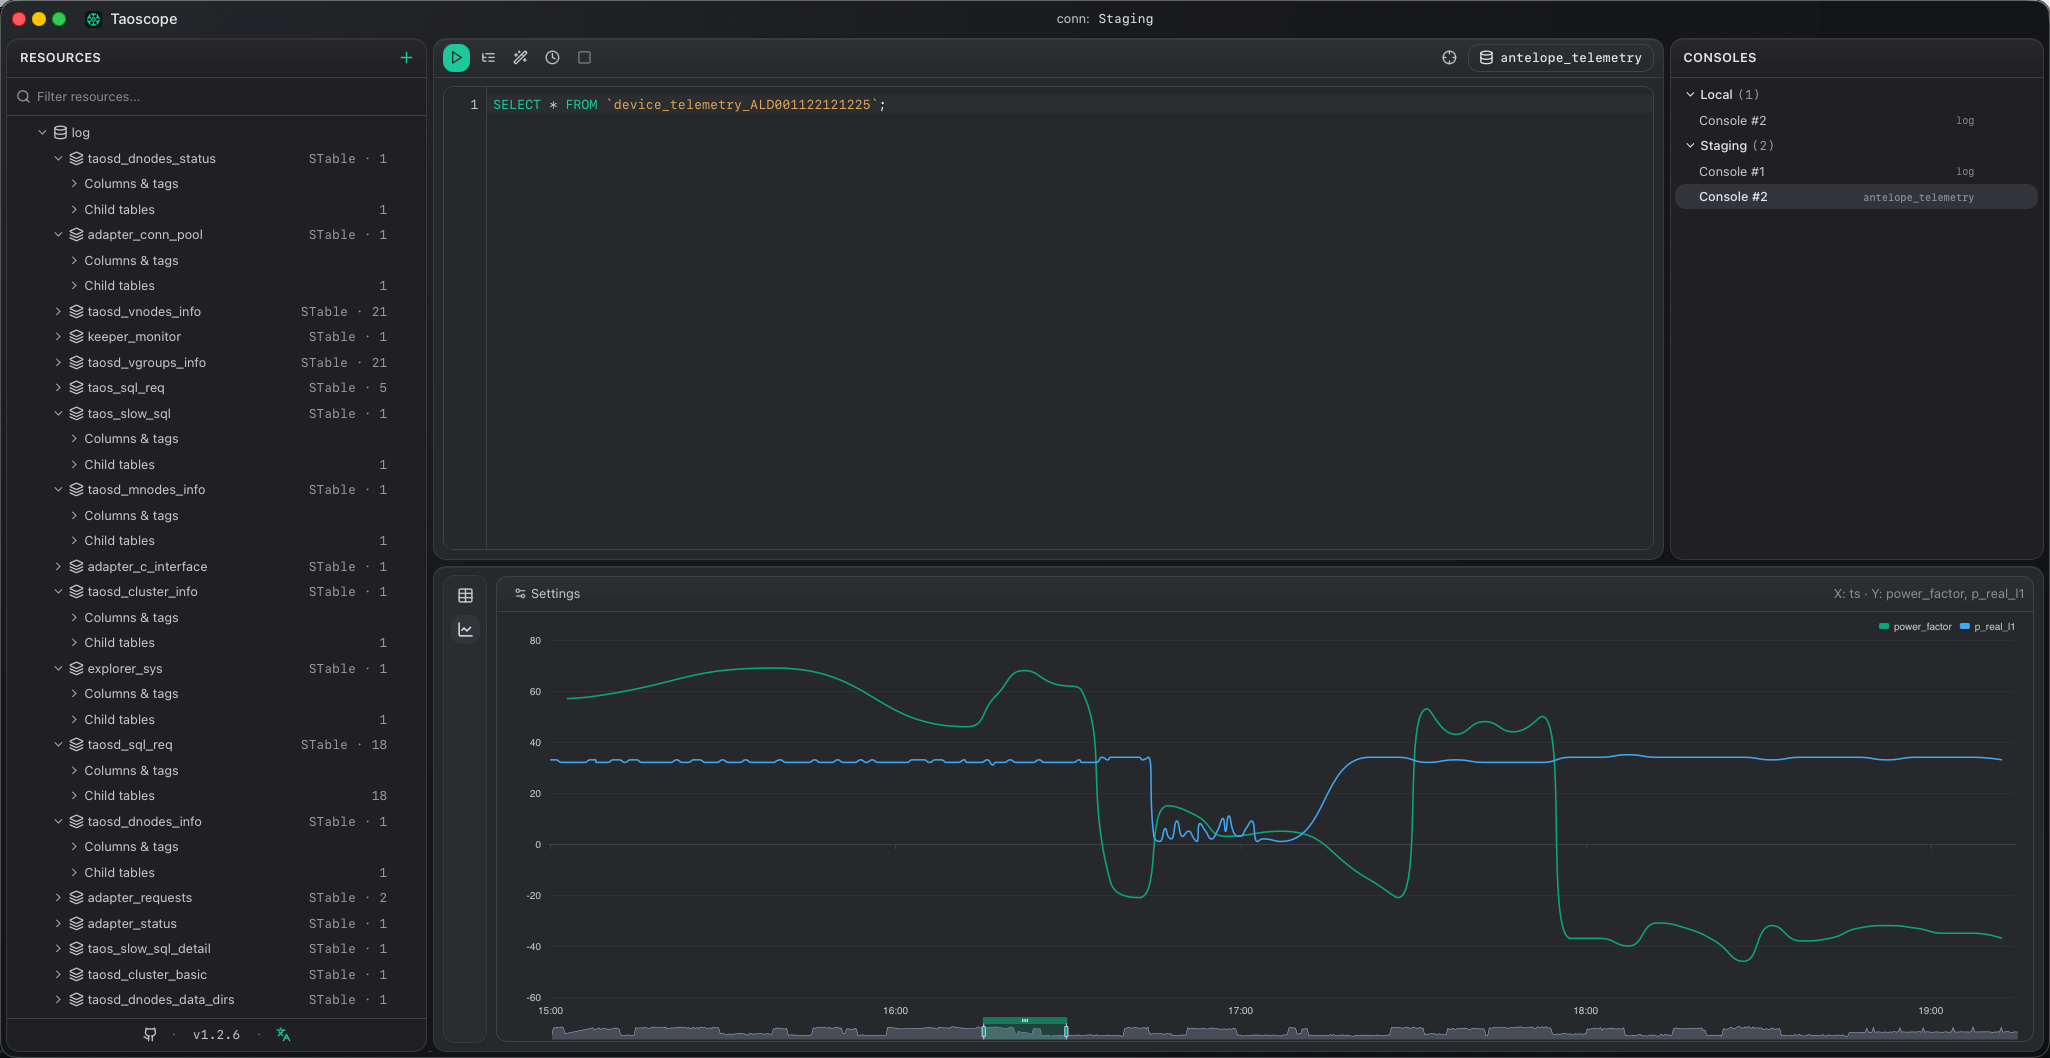
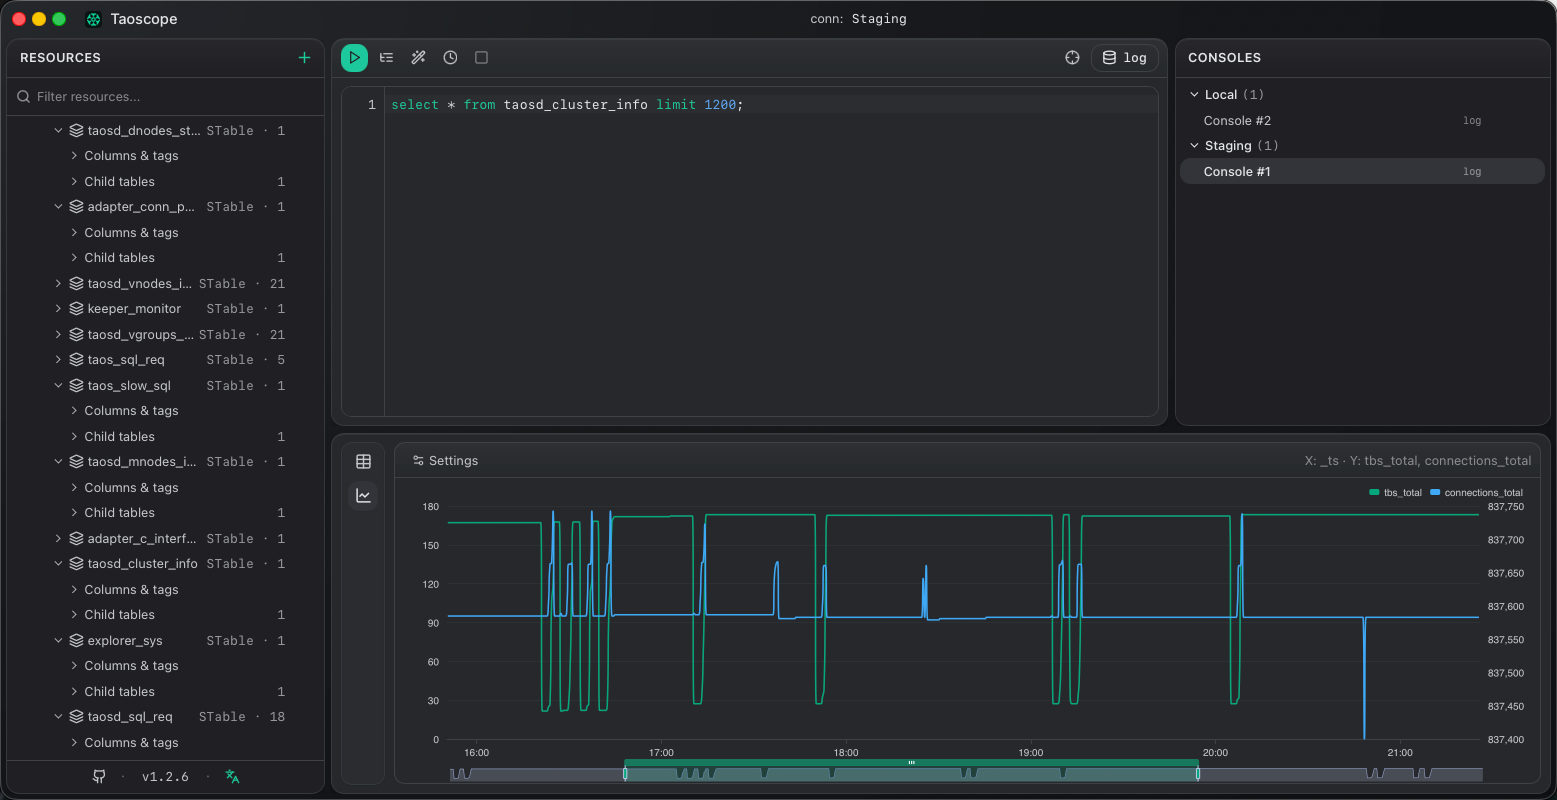
docs(readme): document chart view and sub-table double-click
- Refresh the two Result screenshots (smaller, retina-resampled).
- Resources section: note that double-clicking a sub-table opens or
  reuses a console bound to its DB and auto-runs SELECT * FROM <child>.
- Results section: expanded for the table/chart toggle, the smart Y
  candidate analyzer, the value-aware string→number coercion (BIGINT
  arrives as a JSON string from REST), the auto-dual-Y-axis when
  series magnitudes differ by >10×, and the cursor-anchored time
  zoom tuned for Mac trackpad sensitivity. Mirrored bullet-for-bullet
  in README.zh-CN.md.
- Virtualized-grid bullet picks up "per-row context menu consolidated"
  to reflect the recent scroll-perf consolidation.

diff --git a/README.md b/README.md
@@ -10,6 +10,10 @@ Built on Tauri 2 (Rust shell) + React 18 — a small, native binary that connect
   <img src="docs/images/ui.png" alt="Taoscope main window" width="900">
 </p>
 
+<p align="center">
+  <img src="docs/images/ui-chart.png" alt="Taoscope main window" width="900">
+</p>
+
 ## Features
 
 ### Connections & resources
@@ -17,6 +21,7 @@ Built on Tauri 2 (Rust shell) + React 18 — a small, native binary that connect
 - **Multi-connection workspace** — manage many TDengine clusters side by side, online/offline indicators, per-connection refresh. **HTTP REST or native WebSocket** transport, **Basic or token** auth, optional TLS (with allow-invalid-certs escape hatch).
 - **Visual table designer** — right-click in the tree to create databases / super tables / tables / child tables, edit columns & tags, or drop objects; the exact SQL is previewed live below the form before you run it.
 - **Tree-style resources panel** — Connection → Database → STable / Table → inline **Columns & tags** + **Child tables**, each with a unified `⋯` / right-click action menu. Deleting a connection cascades to its consoles + saved state. Expansion state persists across reloads.
+- **Double-click a sub-table** to open (or reuse) a console bound to its database and auto-append + execute `SELECT * FROM <child>;` — zero typing for a quick peek at a child table's rows.
 - **Schema cache** — keystroke-driven completions don't hammer the backend.
 
 ### SQL console
@@ -32,9 +37,14 @@ Built on Tauri 2 (Rust shell) + React 18 — a small, native binary that connect
 
 ### Results
 
-- **Virtualized grid** (TanStack Table + Virtual) — millions of rows scroll smooth.
+- **Table / Chart toggle** — every result set is browsable as a virtualized grid **or** plotted as a line chart, sharing the exact same in-memory rows (no extra round-trip). Switch via the floating capsule rail that visually columns up with the editor's line-number gutter above.
+- **Virtualized grid** (TanStack Table + Virtual) — millions of rows scroll smooth; per-row context menu (Copy value / row TSV / row JSON / column name) consolidated for low scroll cost.
 - **Sortable / resizable columns**, per-column copy of names or values, **CSV** + **JSON** export.
 - **Inline filter** across all columns.
+- **Smart line chart** — X axis locks to the primary timestamp; Y candidates are auto-scored by type (FLOAT/DOUBLE preferred), value variation, non-null density, and name hints (`temp|humid|volt|count|...` boosted, `id|seq|idx` demoted) so the most-likely business metric is pre-checked. Multi-select more from the settings popover for layered series.
+- **String-typed numeric columns are accepted** (TDengine BIGINT often arrives JSON-serialized as a string) — values are parsed defensively per cell so a stray non-numeric value just drops the column, never crashes the analyzer.
+- **Dual Y-axis** kicks in automatically when selected series differ by >10× in magnitude (e.g. a small temperature curve alongside a BIGINT counter) — small-range metrics stay readable instead of being squashed flat.
+- **Cursor-anchored time zoom** — wheel/trackpad zoom anchors on the cursor's x-position and is tuned for Mac trackpad sensitivity (echarts' default zoom factor felt runaway on multi-event swipes). The dataZoom slider at the bottom is always available too.
 - **Empty state** still shows the schema headers so you know what the query would have returned.
 - **Per-console history** (last 50 queries), persisted to local SQLite.
 

diff --git a/README.zh-CN.md b/README.zh-CN.md
@@ -17,6 +17,7 @@
 - **多连接工作区** —— 并列管理多个 TDengine 集群；在线/离线状态提示；每个连接独立刷新。支持 **HTTP REST 或原生 WebSocket** 传输、**Basic 或 token** 认证、可选 TLS（含跳过证书校验的逃生口）。
 - **可视化表设计器** —— 在树上右键即可新建数据库 / 超级表 / 普通表 / 子表，编辑列与 tag，或删除对象；表单下方实时预览将执行的 SQL，确认后再运行。
 - **树形资源面板** —— Connection → Database → STable / Table → 内联展开 **Columns & tags** 与 **Child tables**，每个节点都有统一的 `⋯` / 右键操作菜单。删除连接会级联清除其下控制台与保存状态。展开状态跨重启保留。
+- **双击子表**即可打开（或复用）该数据库的控制台，自动把 `SELECT * FROM <子表>;` 追加到编辑器并执行 —— 一眼扫数据零键盘操作。
 - **schema 缓存** —— 每次输入触发补全也不会反复打后端。
 
 ### SQL 控制台
@@ -32,9 +33,14 @@
 
 ### 查询结果
 
-- **虚拟化网格**（TanStack Table + Virtual）—— 几百万行也能丝滑滚动。
+- **表格 / 折线图切换** —— 同一份结果集既可用虚拟化网格浏览，也可一键切换为折线图渲染，**共用同一份内存数据**，不会额外往后端打一次。切换入口在左侧浮动胶囊，水平方向与上方编辑器的行号槽对齐成一根连续轨道。
+- **虚拟化网格**（TanStack Table + Virtual）—— 几百万行也能丝滑滚动；右键菜单（复制值 / 复制行 TSV / 复制行 JSON / 复制列名）合并到行级别，滚动开销极低。
 - **可排序 / 可调宽列**，按列复制名/值，**CSV** + **JSON** 导出。
 - **行内过滤**，跨全部列。
+- **智能折线图** —— X 轴自动锁到主时间戳；Y 候选按类型（FLOAT/DOUBLE 优先）、数值变化幅度、非空率、字段名暗示（`temp|humid|volt|count|...` 加分，`id|seq|idx` 减分）综合打分，默认勾选「最像业务指标」的那一列。设置弹窗里可叠加多选画多线。
+- **字符串数字也认**：TDengine BIGINT 通常以字符串形式返回，分析器对每个 cell 做防御式数字强转，遇到杂质（非数字字符串）就放弃整列，绝不抛错。
+- **双 Y 轴自动启用**：当被选中的 Y 系列量级差 >10×（例如温度曲线 + BIGINT 计数器）时自动拆成左右两根 Y 轴，小量级指标不会被大量级压扁成一条直线。
+- **光标锚定时间缩放**：滚轮 / 触控板缩放以光标 x 位置为锚点，灵敏度针对 **Mac 触控板**做了下调（echarts 默认在多事件滑动下手感过猛）。底部 dataZoom 滑块始终可用。
 - **空态保留表头** —— 0 行结果也能看到列结构。
 - **每个控制台独立历史**（最近 50 条），落盘到本地 SQLite。
 